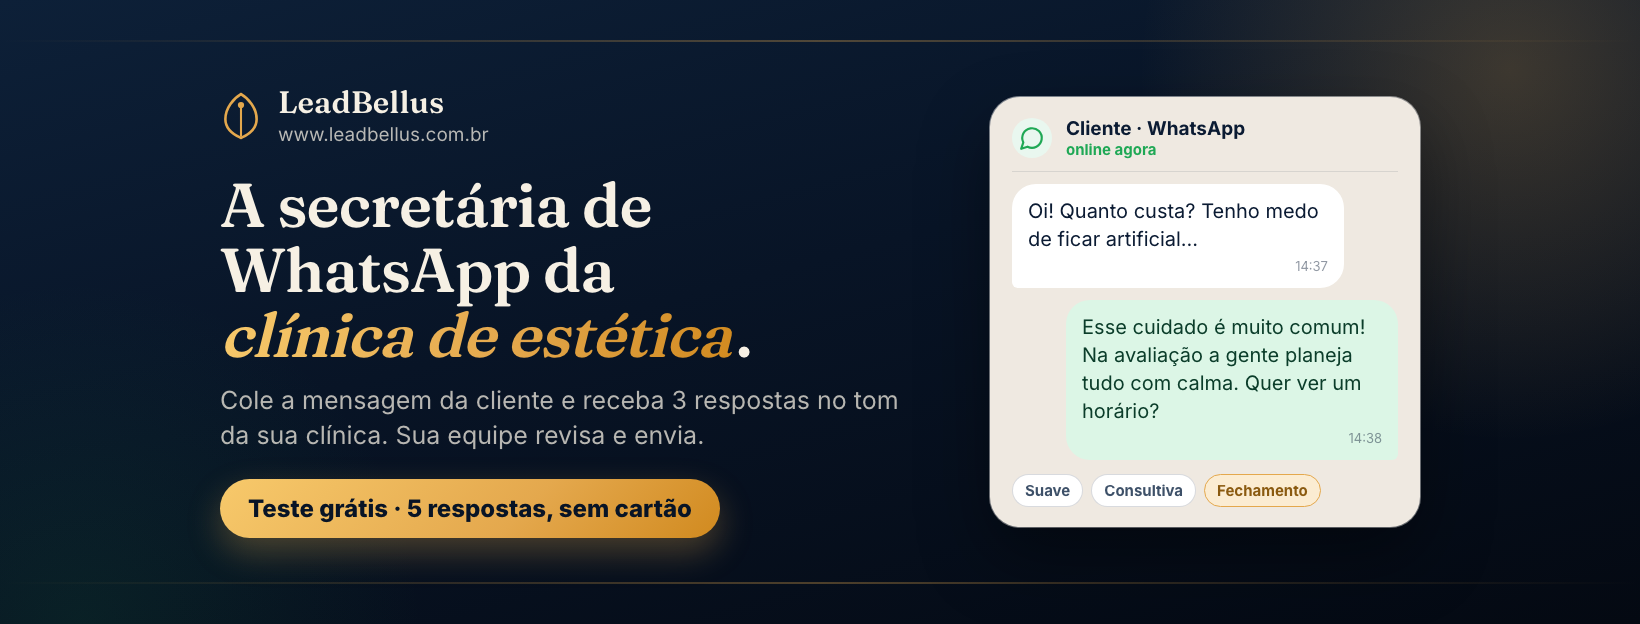
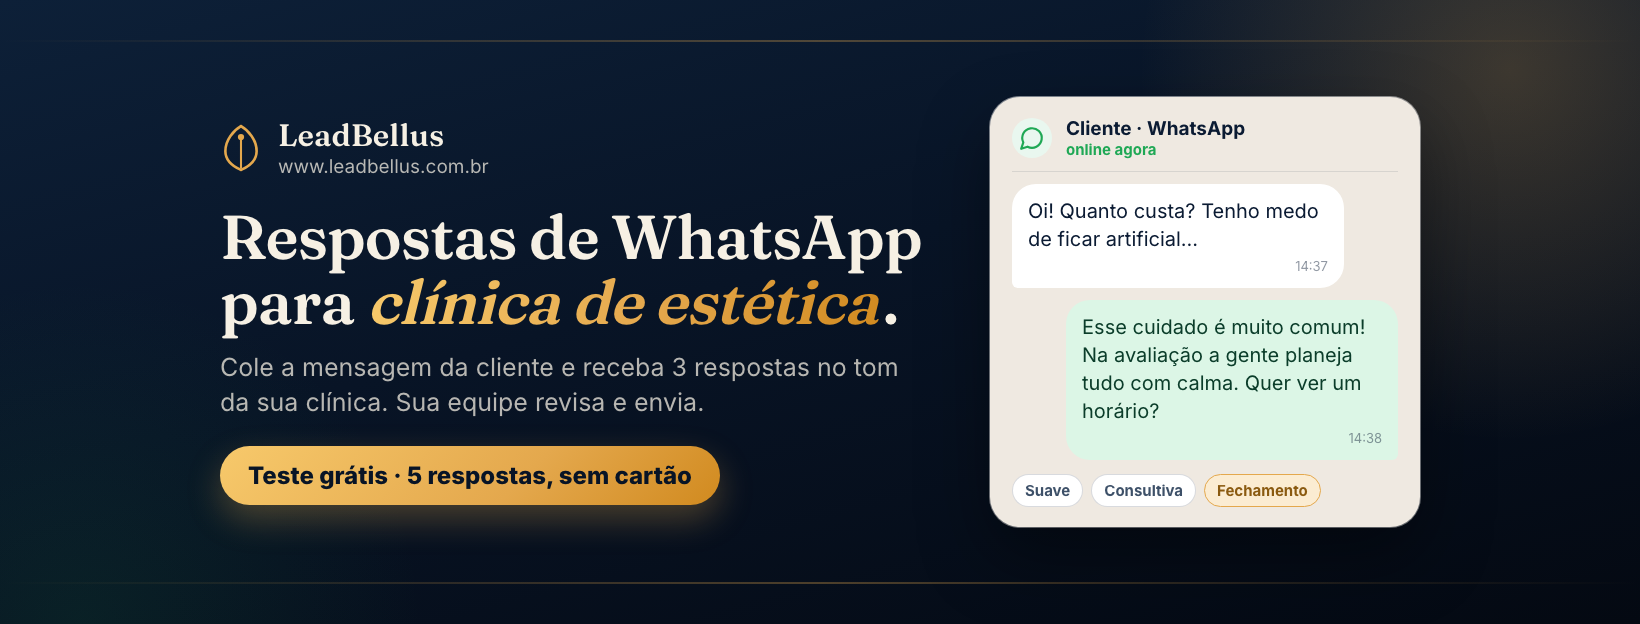
feat(vendas): página do setup de WhatsApp e capa sem "secretária" (#192)
Adiciona /setup-whatsapp com o serviço avulso de R$397 e CTA para o WhatsApp
e troca a frase da capa do Facebook, que usava um termo proibido na copy.

Changed region(s): [[0.1244, 0.1522, 0.5598, 0.9135]]

diff --git a/app/setup-whatsapp/page.tsx b/app/setup-whatsapp/page.tsx
@@ -1,0 +1,142 @@
+import type { Metadata } from "next";
+import Link from "next/link";
+import { Check, X } from "lucide-react";
+import { SetupWhatsappCta } from "@/components/setup-whatsapp-cta";
+import { pageMetadata } from "@/lib/seo";
+
+export const metadata: Metadata = pageMetadata({
+  path: "/setup-whatsapp",
+  title: "Setup de WhatsApp Business para clínica de estética — LeadBellus",
+  description:
+    "Textos de saudação, ausência e respostas rápidas escritos para a sua clínica de estética, aplicados com você numa chamada de até 1 hora. R$397, uma vez só.",
+});
+
+const ENTRA = [
+  "Saudação e mensagem de ausência escritas para a sua clínica",
+  "Respostas rápidas para as perguntas que mais chegam, como “quanto custa?” e “dói?”",
+  "Perfil comercial completo: foto, descrição, horário, endereço e site",
+  "Etiquetas para organizar quem está em conversa",
+  "Link direto para o WhatsApp com mensagem pronta e QR code",
+  "Passagem rápida com quem atende e resumo por escrito",
+];
+
+const NAO_ENTRA = [
+  "Robô, API ou resposta automática com IA",
+  "Responder as suas clientes",
+  "Agenda ou anúncios",
+  "Verificação da empresa na Meta",
+  "Promessa de mais agendamentos ou faturamento",
+];
+
+const PASSOS = [
+  ["Você conta como é a clínica", "Pelo WhatsApp, eu pergunto o que preciso saber: procedimentos, horário e as dúvidas que mais chegam."],
+  ["Eu escrevo, você aprova", "Você recebe todos os textos antes da chamada e muda o que quiser."],
+  ["Aplicamos juntos", "Numa chamada de vídeo de até 1 hora, você aplica tudo no seu celular, comigo guiando."],
+  ["Testamos e você paga o resto", "Conferimos o que foi configurado e só então você paga o restante."],
+];
+
+const PERGUNTAS = [
+  ["Você vai entrar no meu WhatsApp?", "Não. Quem toca na tela é você, no seu celular. Eu nunca peço código de verificação nem acesso à sua conta."],
+  ["Isso é um robô?", "Não. São recursos do próprio WhatsApp Business, com textos que você aprova. Quem conversa com a cliente continua sendo a sua equipe."],
+  ["Preciso assinar o LeadBellus?", "Não. O setup é um serviço à parte, pago uma vez só."],
+  ["Os textos prometem resultado ou citam preço de procedimento?", "Não. Eles não prometem resultado, não fazem diagnóstico e não citam preço de procedimento. Quem aprova é você."],
+  ["E se eu desistir?", "Se desistir antes da chamada, ou se eu não entregar, o sinal volta no mesmo dia."],
+  ["Meu número está ligado a robô ou CRM. Serve?", "Hoje não. Este serviço só funciona com o app WhatsApp Business no celular."],
+];
+
+export default function SetupWhatsappPage() {
+  return (
+    <main className="min-h-screen bg-navy-900 text-navy-50">
+      <div className="mx-auto max-w-3xl px-5 py-12 sm:py-20">
+        <Link href="/" className="text-sm font-medium text-gold-400 hover:text-gold-300">
+          ← LeadBellus
+        </Link>
+
+        <section className="mt-8">
+          <p className="text-sm font-semibold text-gold-400">Serviço para clínicas de estética</p>
+          <h1 className="mt-3 font-serif text-4xl font-semibold leading-tight text-champagne-300 sm:text-5xl">
+            Seu WhatsApp Business pronto, com textos escritos para a sua clínica.
+          </h1>
+          <p className="mt-5 text-lg leading-relaxed">
+            Eu escrevo a saudação, a ausência e as respostas rápidas no tom de vocês. Depois,
+            numa chamada de até 1 hora, você aplica tudo no seu celular, comigo junto.
+          </p>
+          <div className="mt-7 flex flex-col items-start gap-3">
+            <SetupWhatsappCta origem="topo" label="Falar no WhatsApp" />
+            <p className="text-sm text-navy-100">R$397, uma vez só. R$97 de sinal e R$300 no fim da chamada.</p>
+          </div>
+        </section>
+
+        <section className="mt-14">
+          <h2 className="font-serif text-2xl font-semibold text-champagne-200">O que fica pronto</h2>
+          <ul className="mt-4 space-y-3">
+            {ENTRA.map((item) => (
+              <li key={item} className="flex gap-3">
+                <Check size={20} className="mt-0.5 shrink-0 text-gold-400" aria-hidden />
+                <span>{item}</span>
+              </li>
+            ))}
+          </ul>
+        </section>
+
+        <section className="mt-14">
+          <h2 className="font-serif text-2xl font-semibold text-champagne-200">Como funciona</h2>
+          <ol className="mt-4 space-y-5">
+            {PASSOS.map(([titulo, texto], i) => (
+              <li key={titulo} className="flex gap-4">
+                <span className="flex h-8 w-8 shrink-0 items-center justify-center rounded-full bg-gold-400 text-sm font-bold text-navy-900">
+                  {i + 1}
+                </span>
+                <div>
+                  <h3 className="font-semibold text-champagne-200">{titulo}</h3>
+                  <p className="mt-1 text-sm leading-relaxed">{texto}</p>
+                </div>
+              </li>
+            ))}
+          </ol>
+        </section>
+
+        <section className="mt-14">
+          <h2 className="font-serif text-2xl font-semibold text-champagne-200">O que não entra</h2>
+          <ul className="mt-4 space-y-3">
+            {NAO_ENTRA.map((item) => (
+              <li key={item} className="flex gap-3">
+                <X size={20} className="mt-0.5 shrink-0 text-navy-100" aria-hidden />
+                <span>{item}</span>
+              </li>
+            ))}
+          </ul>
+        </section>
+
+        <section className="mt-14 rounded-2xl border border-navy-500 p-6">
+          <h2 className="font-serif text-2xl font-semibold text-champagne-200">Preço</h2>
+          <p className="mt-3 font-serif text-4xl font-semibold text-gold-400">R$397</p>
+          <p className="mt-1 text-sm">Pagamento único, sem mensalidade.</p>
+          <p className="mt-4 leading-relaxed">
+            Você reserva com R$97 de sinal por Pix e paga os R$300 no fim da chamada, depois de
+            testar tudo. Se desistir antes da chamada, ou se eu não entregar, o sinal volta no
+            mesmo dia.
+          </p>
+          <p className="mt-3 text-sm text-navy-100">
+            Você estaria entre as primeiras clínicas: ainda não tenho caso para mostrar.
+          </p>
+          <div className="mt-5">
+            <SetupWhatsappCta origem="preco" label="Quero reservar um horário" />
+          </div>
+        </section>
+
+        <section className="mt-14">
+          <h2 className="font-serif text-2xl font-semibold text-champagne-200">Perguntas frequentes</h2>
+          <dl className="mt-4 space-y-5">
+            {PERGUNTAS.map(([pergunta, resposta]) => (
+              <div key={pergunta}>
+                <dt className="font-semibold text-champagne-200">{pergunta}</dt>
+                <dd className="mt-1 text-sm leading-relaxed">{resposta}</dd>
+              </div>
+            ))}
+          </dl>
+        </section>
+      </div>
+    </main>
+  );
+}

diff --git a/components/setup-whatsapp-cta.tsx b/components/setup-whatsapp-cta.tsx
@@ -1,0 +1,26 @@
+"use client";
+
+import { MessageCircle } from "lucide-react";
+import { trackEvent } from "@/components/Analytics";
+
+const WHATSAPP_NUMBER = (process.env.NEXT_PUBLIC_WHATSAPP_NUMBER || "").replace(/\D/g, "");
+
+const MENSAGEM = "Oi! Vi a página do setup de WhatsApp e quero saber como funciona para a minha clínica.";
+
+/** Abre a conversa com o texto pronto. Sem número configurado, não renderiza. */
+export function SetupWhatsappCta({ origem, label }: { origem: string; label: string }) {
+  if (!WHATSAPP_NUMBER) return null;
+
+  return (
+    <a
+      href={`https://wa.me/${WHATSAPP_NUMBER}?text=${encodeURIComponent(MENSAGEM)}`}
+      target="_blank"
+      rel="noopener noreferrer"
+      onClick={() => trackEvent("contact_whatsapp", { source: `setup_${origem}` })}
+      className="inline-flex min-h-12 items-center justify-center gap-2 rounded-full bg-[#1FA855] px-6 py-3 text-center text-base font-semibold text-white transition hover:brightness-110"
+    >
+      <MessageCircle size={20} aria-hidden />
+      {label}
+    </a>
+  );
+}

diff --git a/tests/app/setup-whatsapp.test.ts b/tests/app/setup-whatsapp.test.ts
@@ -1,0 +1,22 @@
+import { readFileSync } from "node:fs";
+import { resolve } from "node:path";
+import { describe, it, expect } from "vitest";
+import { PUBLIC_ROUTES } from "@/lib/seo";
+
+const fonte = readFileSync(resolve(process.cwd(), "app/setup-whatsapp/page.tsx"), "utf8");
+
+describe("página do setup de WhatsApp", () => {
+  it("entra no sitemap", () => {
+    expect(PUBLIC_ROUTES).toContain("/setup-whatsapp");
+  });
+
+  it("mostra preço, sinal e devolução", () => {
+    expect(fonte).toContain("R$397");
+    expect(fonte).toContain("R$97 de sinal");
+    expect(fonte).toContain("o sinal volta no");
+  });
+
+  it("não promete resultado nem usa termo proibido", () => {
+    expect(fonte).not.toMatch(/secretária|injetáveis|garantid/i);
+  });
+});

diff --git a/lib/seo.ts b/lib/seo.ts
@@ -1,7 +1,7 @@
 import type { Metadata } from "next";
 
 /** Rotas públicas indexáveis — fonte única para o sitemap. */
-export const PUBLIC_ROUTES = ["/", "/termos", "/privacidade", "/reembolso"] as const;
+export const PUBLIC_ROUTES = ["/", "/setup-whatsapp", "/termos", "/privacidade", "/reembolso"] as const;
 
 export const NOINDEX: Metadata = { robots: { index: false, follow: false } };
 
